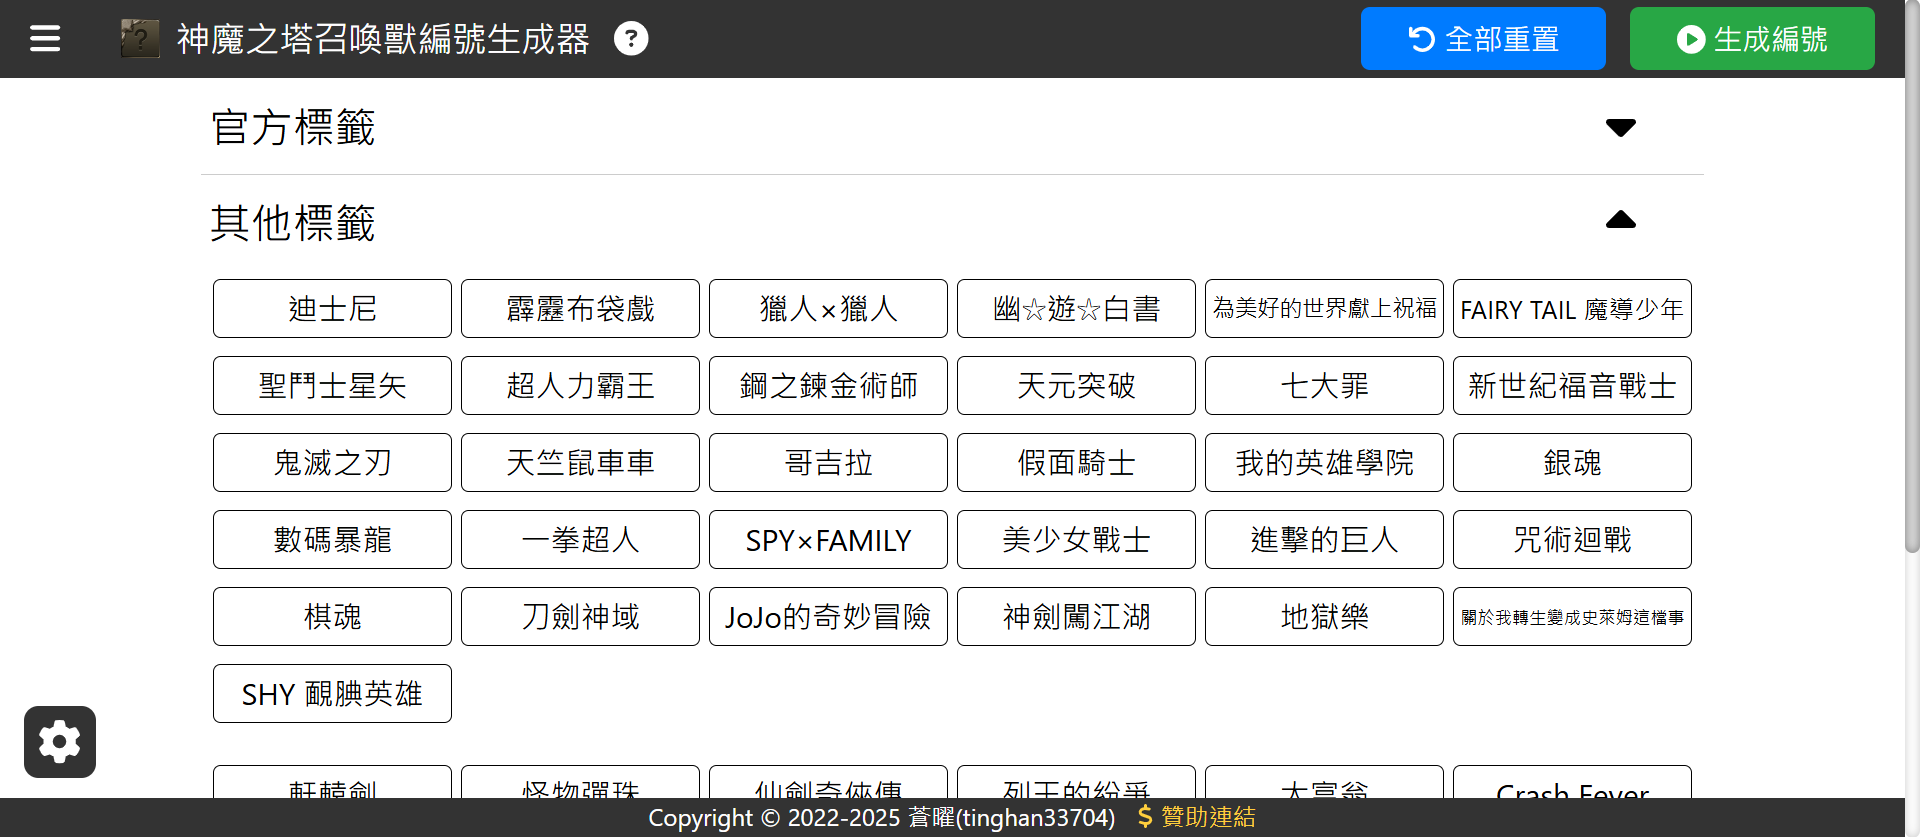
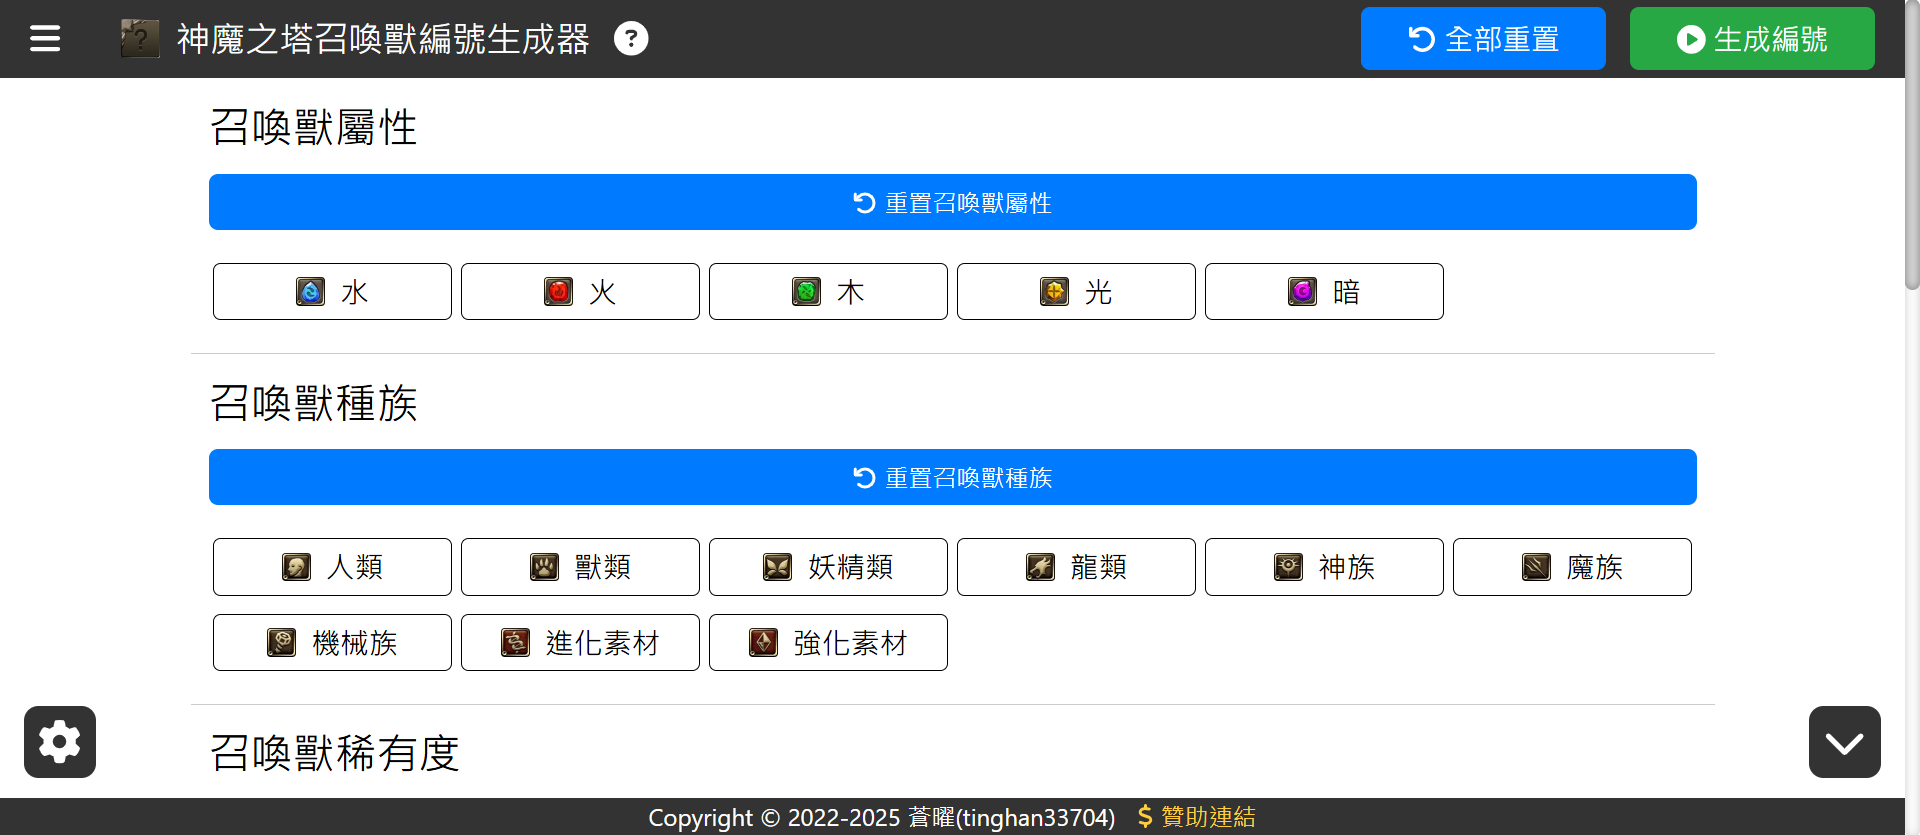
add attribute, race and star filter for monster selector

diff --git a/src/tools/MonsterSelector/MonsterSelector.tsx b/src/tools/MonsterSelector/MonsterSelector.tsx
@@ -6,6 +6,9 @@ import {
     tagString,
     versionString,
     extraFilterData,
+    attrTypeString,
+    raceTypeString,
+    starTypeString,
 } from "src/constant/filterConstants"
 import { monsterData } from "src/constant/monsterData"
 
@@ -25,6 +28,9 @@ interface IMonsterSelectorProps {}
 
 const MonsterSelector: React.FC<IMonsterSelectorProps> = () => {
     const [input, setInput] = useState<number[]>([])
+    const [selectedAttributes, setSelectedAttributes] = useState<string[]>([])
+    const [selectedRaces, setSelectedRaces] = useState<string[]>([])
+    const [selectedStars, setSelectedStars] = useState<string[]>([])
     const [selectedTags, setSelectedTags] = useState<string[]>([])
     const [selectedExtraTags, setSelectedExtraTags] = useState<string[]>([])
     const [selectedVersions, setSelectedVersions] = useState<string[]>([])
@@ -37,11 +43,21 @@ const MonsterSelector: React.FC<IMonsterSelectorProps> = () => {
 
     const typeMap: IObject = useMemo(() => {
         return {
+            attribute: [selectedAttributes, setSelectedAttributes],
+            race: [selectedRaces, setSelectedRaces],
+            star: [selectedStars, setSelectedStars],
             tag: [selectedTags, setSelectedTags],
             extraTag: [selectedExtraTags, setSelectedExtraTags],
             version: [selectedVersions, setSelectedVersions],
         }
-    }, [selectedExtraTags, selectedTags, selectedVersions])
+    }, [
+        selectedAttributes,
+        selectedExtraTags,
+        selectedRaces,
+        selectedStars,
+        selectedTags,
+        selectedVersions,
+    ])
 
     useEffect(() => {
         setFavIconAndTitle("monster-selector")
@@ -88,11 +104,21 @@ const MonsterSelector: React.FC<IMonsterSelectorProps> = () => {
     const startFilter = useCallback(() => {
         setResultPanelClicked(false)
 
+        const isAttrSelected = !!selectedAttributes.length
+        const isRaceSelected = !!selectedRaces.length
+        const isStarSelected = !!selectedStars.length
         const isTagSelected = !!selectedTags.length
         const isExtraTagSelected = !!selectedExtraTags.length
         const isVersionSelected = !!selectedVersions.length
 
-        if (!isTagSelected && !isExtraTagSelected && !isVersionSelected) {
+        if (
+            !isAttrSelected &&
+            !isRaceSelected &&
+            !isStarSelected &&
+            !isTagSelected &&
+            !isExtraTagSelected &&
+            !isVersionSelected
+        ) {
             errorAlert(11)
             return
         }
@@ -108,7 +134,16 @@ const MonsterSelector: React.FC<IMonsterSelectorProps> = () => {
         const tagGroup = selectedExtraData.map((tagObj) => tagObj?.tags).flat(1)
 
         for (const monster of monsterData) {
-            if (!monster?.star || monster?.star <= 0 || monster?.displayId)
+            if (
+                !monster?.star ||
+                monster?.star <= 0 ||
+                monster?.displayId ||
+                (isAttrSelected &&
+                    !selectedAttributes.includes(monster.attribute)) ||
+                (isRaceSelected && !selectedRaces.includes(monster.race)) ||
+                (isStarSelected &&
+                    !selectedStars.map((s) => +s[0]).includes(monster.star))
+            )
                 continue
 
             if (isTagSelected) {
@@ -159,6 +194,15 @@ const MonsterSelector: React.FC<IMonsterSelectorProps> = () => {
                     result.push({ id: monster.id })
                 }
             }
+
+            if (
+                (isAttrSelected || isRaceSelected || isStarSelected) &&
+                !isTagSelected &&
+                !isExtraTagSelected &&
+                !isVersionSelected
+            ) {
+                result.push({ id: monster.id })
+            }
         }
 
         setResultData(
@@ -172,7 +216,15 @@ const MonsterSelector: React.FC<IMonsterSelectorProps> = () => {
             ])
         )
         setIsAfterFilter(true)
-    }, [input, selectedExtraTags, selectedTags, selectedVersions])
+    }, [
+        input,
+        selectedAttributes,
+        selectedExtraTags,
+        selectedRaces,
+        selectedStars,
+        selectedTags,
+        selectedVersions,
+    ])
 
     const openInputModal = useCallback(() => {
         setInputModalOpen(true)
@@ -224,6 +276,9 @@ const MonsterSelector: React.FC<IMonsterSelectorProps> = () => {
             toolId='monster-selector'
             toggleButton={toggleButton}
             resetAll={resetAll}
+            attribute={selectedAttributes}
+            race={selectedRaces}
+            star={selectedStars}
             tag={selectedTags}
             extraTag={selectedExtraTags}
             version={selectedVersions}
@@ -232,6 +287,22 @@ const MonsterSelector: React.FC<IMonsterSelectorProps> = () => {
             <Header />
             <PageContainer openInputModal={openInputModal}>
                 <>
+                    <FilterRow
+                        title={"召喚獸屬性"}
+                        type={"attribute"}
+                        data={attrTypeString}
+                    />
+                    <FilterRow
+                        title={"召喚獸種族"}
+                        type={"race"}
+                        data={raceTypeString}
+                    />
+                    <FilterRow
+                        title={"召喚獸稀有度"}
+                        type={"star"}
+                        data={starTypeString}
+                        btnSuffix={" ★"}
+                    />
                     <FilterRow
                         title={"官方標籤"}
                         type={"tag"}

diff --git a/src/shared/ResultRow/ResultImage/ResultMonsterImage.tsx b/src/shared/ResultRow/ResultImage/ResultMonsterImage.tsx
@@ -438,10 +438,10 @@ export const ResultMonsterImage: React.FC<IResultMonsterImageProps> = (
         /* Change digimon image with special keyword */
         const digimonShinka =
             [10244, 10245, 10246, 10248, 10249, 10250].includes(id) &&
-            keywordsArr.includes("進化")
+            keywordsArr?.includes("進化")
         const digimonChouShinka =
             [10244, 10245, 10246, 10248, 10249, 10250].includes(id) &&
-            keywordsArr.includes("超進化")
+            keywordsArr?.includes("超進化")
 
         /* Anya smiles when result has Damian */
         const anyaSmile =
